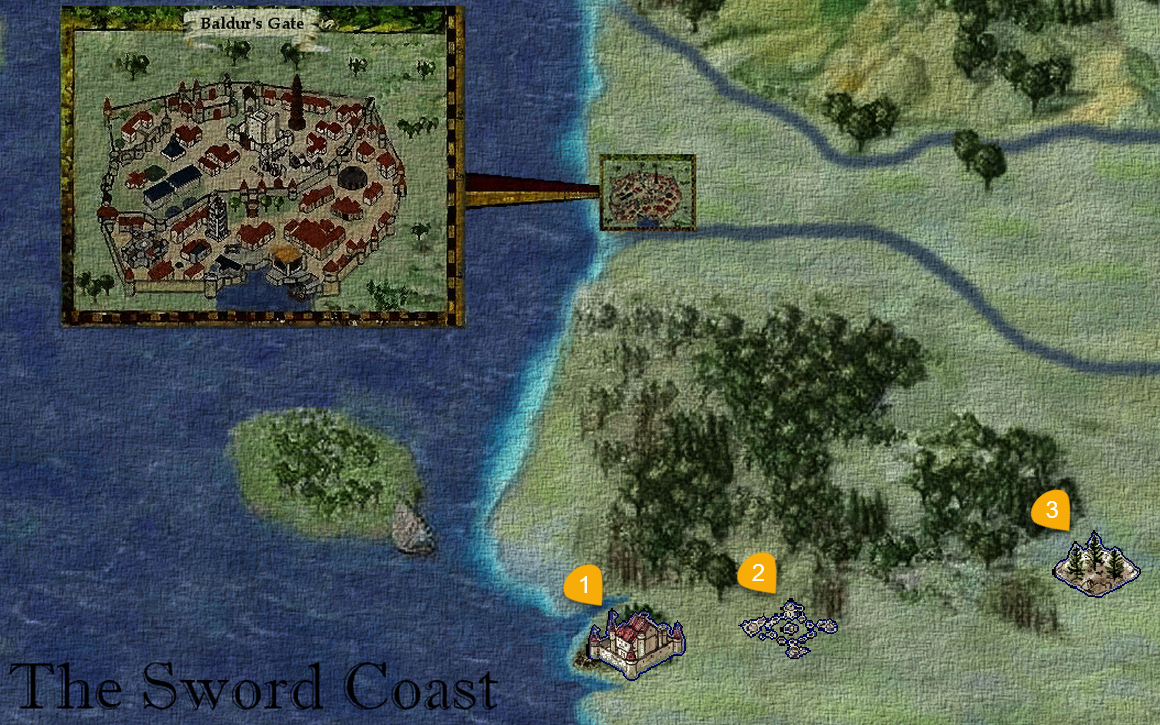
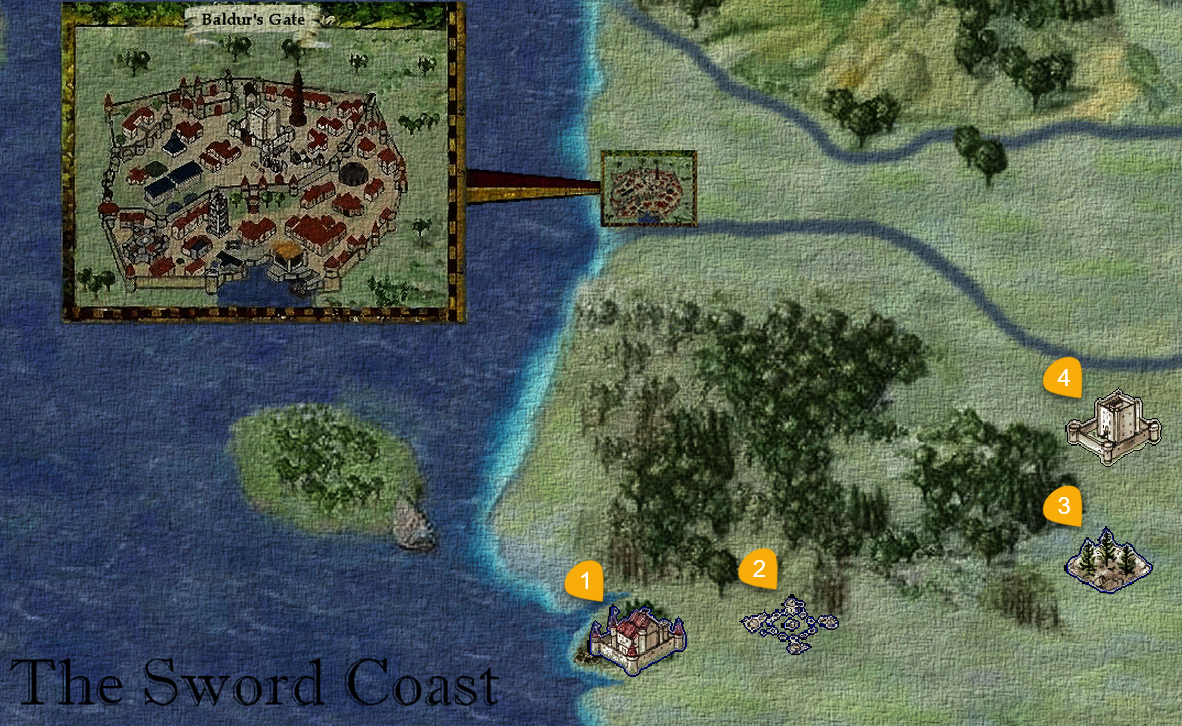
new file:   docs/images/friendlyarm.webp 	new file:   docs/images/goldpantaloons.webp 	new file:   docs/images/hobgoblin.webp 	new file:   docs/images/maly_pajak.webp 	new file:   docs/images/niedzwiedz.webp 	new file:   docs/images/orig/friendlyarm.webp 	new file:   docs/images/orig/goldpantaloons.

diff --git a/docs/storyline/chapter1-2.md b/docs/storyline/chapter1-2.md
@@ -1,0 +1,119 @@
+![Pod pomocną dłonią](../images/friendlyarm.webp){ .center-img width="100%" }\
+
+[![Lwi Trakt](../maps/BG2300.webp){ .center-img width="40%" }](../maps/BG2300.webp)
+
+Zmęczeni podróżnicy dotarli w końcu do *Pomocnej Dłoni*. Gospoda okazała się w rzeczywistości warownią otoczoną wysokim murem. Wewnątrz znajdowały się zabudowania gospodarcze, świątynia oraz przysadzista wieża, w której wędrowcy mogli znaleźć bezpieczny nocleg i odpocząć od niebezpieczeństw szlaku. Przy bramie strażnicy <span class="mb">1</span> poinformowali nowo przybyłych, że za murami obowiązują dwie proste zasady: należy zachowywać się uprzejmie i nie wszczynać żadnych bójek.
+
+Jeszcze podczas marszu **Sandrah** zapytała Leecha o życie w *Candlekeep*, nieświadomie kierując rozmowę ku wciąż bolesnym wspomnieniom o **Gorionie**. Młody gnom przyznał jednak, że przywoływanie dobrych chwil spędzonych z przybranym ojcem przynosi mu pewną ulgę, gdyż milczenie i tak nie jest w stanie uciszyć żalu po jego stracie. Choć cytadela pozostawała połączona z całym światem dzięki nieustannemu napływowi gości oraz gromadzonej w bibliotece wiedzy, dla wychowanka **Goriona** zawsze była miejscem odizolowanym i niemal pozbawionym rówieśników poza **Imoen** i **Adamem**. Leech zdobył tam rozległą wiedzę o *Wybrzeżu Mieczy*, jego mieszkańcach i historii, lecz dopiero teraz przekonywał się, jak bardzo teoria różni się od rzeczywistości. Czym innym było bowiem czytać o niebezpieczeństwach szlaku, a czym innym stanąć z nimi twarzą w twarz.
+
+**Sandrah**, która również wychowała się z dala od trudów codziennego życia, podzielała jego ciekawość świata i pragnęła sprawdzić wartość własnego wykształcenia. Zwróciła uwagę, że o powodzeniu wyprawy nie zdecydują jedynie umiejętności bojowe, lecz także wiedza, rozwaga i zdolność właściwego wykorzystywania talentów wszystkich członków drużyny. Zapewniła, że będzie wspierać młodego gnoma zarówno radą i magią leczniczą, jak i własnym orężem. Na zakończenie dodała z uśmiechem, że jego bystry umysł może się okazać równie przydatny jak młot trzymany w dłoni.
+
+Spokojna atmosfera warowni sprawiła, że tym większym zaskoczeniem okazał się atak **Tarnesha** <span class="mb">2</span>, który próbował w pojedynkę zgładzić całą drużynę. **Sandrah** natychmiast rozpoznała w nim łowcę głów, dzięki czemu napastnik nie zdołał wykorzystać elementu zaskoczenia. Starcie nie trwało długo, a przy ciele niedoszłego zabójcy znaleziono kolejny list gończy wystawiony na Leecha. Tym razem nagroda za jego głowę wynosiła dwieście sztuk złota.
+
+Młody gnom po raz kolejny przekonał się, że **Sandrah** jest niezwykle interesującą osobą. W przeciwieństwie do niego większość życia spędziła w wielkim mieście, lecz podobnie jak on nie obawiała się nieznanego i z ciekawością oczekiwała, co przyniesie przyszłość. Również **Imoen** szybko nabierała wprawy w magicznym rzemiośle. Dziewczyna opanowała już umiejętność zapisywania zaklęć na zwojach, udowadniając, że jej zainteresowanie magią nie było jedynie przelotnym kaprysem. Jeśli nadal będzie rozwijać się w takim tempie, może jeszcze niejednego zaskoczyć.
+
+W pobliżu gospody drużyna poznała gnoma o dumnie brzmiącym imieniu **Ygnatz Bombastus III**. Od słowa do słowa uczony przeszedł do sprawy i poprosił o odzyskanie księgi należącej do wielkiego **Karliniego**. Według jego informacji wolumin znajdował się gdzieś w ruinach dawnej szkoły *Ulcastera*. Drużyna postanowiła przyjąć zlecenie i rozejrzeć się za księgą, gdy tylko droga zaprowadzi ją w tamte okolice ([THE MAGNIFICENT KARLINI](../other/zadania.md#q10)).
+
+Wewnątrz gospody <span class="mb">3</span> zaczepił ich **Jopi**, lecz rozmowa nie doprowadziła do żadnych konkretów. Lokalny pijaczyna **Whelp** narzekał na niedobór żelaza, choć problem najwyraźniej nie przeszkadzał mu w dalszym obciążaniu wątroby i ostatnich ocalałych szarych komórek. **Surrey** wyjaśnił, że kryzys żelaza zmusił go do opuszczenia mistrza, kowala **Taeroma Fuiruima** z *Beregostu* i zamierzał teraz udać się do *Waterdeep*, gdzie miał nadzieję znaleźć lepsze perspektywy. Szef kuchni **Martel** prowadził natomiast niewielki handel miksturami i owocami, które z pewnością będą mogły przydać się podczas dalszej podróży.
+
+Siedzący w rogu półork **Dorn** nie okazał się rozmowny. Ponury wojownik pomylił Leecha ze służbą i od pierwszych słów zachowywał się wyjątkowo nieuprzejmie. Wyglądał na doświadczonego i niebezpiecznego wojownika, lecz zdecydowanie nie był zainteresowany dłuższą konwersacją.
+
+W gospodzie drużyna spotkała również **Sama**, jednego z wędrownych Poetów Jeziora. Bard zaoferował, że za odpowiednią opłatą ułoży pieśń o czynach drużyny, a następnie przez kilka kolejnych dni będzie ją rozpowszechniał wśród mieszkańców *Wybrzeża Mieczy*. W zależności od wersji opowieści jego występ mógł poprawić reputację bohaterów albo skutecznie ją nadszarpnąć. Tym razem Leech postanowił, że nie potrzebuje kolejnej pieśni przedstawiającej go jako nieskazitelnego bohatera. **Sam** otrzymał tysiąc sześćset sztuk złota i opuścił *Pomocną Dłoń*, aby rozgłaszać znacznie mniej pochlebną wersję czynów drużyny. Zapowiedział, że powróci po wykonaniu zadania. :material-trending-down: **Reputacja -3**.
+
+Wśród gości znajdował się także **Thorengrim Hammerfist**, krasnoludzki kowal i handlarz dysponujący imponującym wyborem broni, pancerzy oraz magicznego wyposażenia. Rzemieślnik nie ograniczał się jednak do sprzedaży gotowych przedmiotów. Twierdził, że po dostarczeniu odpowiednich składników będzie potrafił połączyć niektóre elementy ekwipunku i przekuć je w znacznie potężniejsze przedmioty. Leech postanowił zapamiętać jego ofertę. Podczas dalszej wędrówki drużyna z pewnością natrafi na wiele osobliwych artefaktów i materiałów, które w rękach utalentowanego kowala mogą zyskać zupełnie nowe właściwości.
+
+Znacznie bardziej rozmowna okazała się **Nessie**, pomocnica karczmarza. Wyjaśniła, że w czasach poprzedzających powstanie gospody warownia należała do kapłana **Bhaala**, boga mordu. Po śmierci bóstwa obecni właściciele, **Bentley Mirrorshade** i jego żona **Gellana**, zdołali pokonać sługę Pana Mordu, oczyścić twierdzę i przekształcić ją w bezpieczną przystań dla podróżnych. **Nessie** podzieliła się również kilkoma informacjami o gościach na górze. **Unshey** podobno pracował nad nową książką, natomiast **Landrin** próbowała utopić swoje zmartwienia w alkoholu.
+
+Wewnątrz gospody Leech odnalazł wreszcie **Jaheirę** i **Khalida**, przyjaciół wskazanych przez **Goriona**. Półelfka wyjaśniła, że przybrany ojciec od dawna obawiał się o bezpieczeństwo wychowanka i chciał, aby w razie jego przedwczesnej śmierci oboje otoczyli młodego gnoma opieką. Leech był już jednak dorosły, dlatego ostateczna decyzja o przyjęciu ich pomocy należała do niego. Szybko okazało się również, że **Jaheira** znała **Sandrah** z czasów jej dzieciństwa, a **Khalid** pamiętał nawet jej matkę. Kleryczka nie chciała jednak wracać do dawnych wydarzeń i skierowała rozmowę ku bieżącym problemom. Przyjaciele **Goriona** zaproponowali, że będą towarzyszyć jego wychowankowi, dopóki nie odnajdzie własnego miejsca w świecie. Poprosili również drużynę o pomoc w zbadaniu niepokojących wydarzeń w kopalniach *Nashkel*. Zamierzali spotkać się tam z burmistrzem **Berrunem Ghastkillem** i ustalić przyczynę pogłębiającego się kryzysu żelaza. ([JAHEIRA AND KHALID](../other/zadania.md#q11))
+
+**Imoen** z charakterystycznym dla siebie entuzjazmem przywitała nowych towarzyszy, przedstawiając się **Jaheirze** nie tylko jako przyjaciółka Leecha, lecz wręcz jego samozwańcza opiekunka. Młody gnom przyjął propozycję wspólnej podróży, traktując ją jako ostatnią wolę przybranego ojca i zarazem pierwszy krok ku odkryciu prawdy o wydarzeniach, które doprowadziły do jego śmierci.
+
+Następnie nadszedł czas na rozmowę z właścicielem warowni. Leech zapytał **Bentleya Mirrorshade’a**, czy ten nie potrzebuje pomocy w jakiejś sprawie. Gospodarz przyznał, że chociaż w *Pomocnej Dłoni* zawsze znajdowało się zajęcie przy pilnowaniu porządku wśród podróżnych, tym razem potrzebował wsparcia w znacznie poważniejszym problemie. **Bentley** potwierdził opowieść o dawnym właścicielu twierdzy. Przed laty warownia należała do nieumarłego kapłana **Bhaala**, którego karczmarz wraz ze swoimi towarzyszami zdołał pokonać. Po zwycięstwie oczyścili budowlę i przekształcili ją w gospodę przeznaczoną dla zmęczonych wędrowców oraz poszukiwaczy przygód. Nie zdołali jednak całkowicie zniszczyć sanktuarium znajdującego się na najniższym poziomie podziemi. Usunęli pozostałości świątyni oraz odnalezione tam przeklęte przedmioty, lecz samych murów i konstrukcji nie mogli zburzyć bez ryzyka naruszenia fundamentów całej warowni. Zdecydowali się więc zamknąć przejście i pozostawić to miejsce zapomnieniu. Niedawno w gospodzie pojawiła się podejrzana grupa, która znacznie bardziej niż odpoczynkiem interesowała się piwnicami. Intruzom udało się odnaleźć tajne przejście prowadzące do podziemi, gdzie rozpoczęli poszukiwania pozostałości dawnego sanktuarium. Aby zapewnić sobie spokój, przyzwali ogromne szczury, nieumarłych oraz potężniejsze plugastwa, które miały powstrzymać każdego, kto spróbowałby za nimi podążyć. **Bentley** zamknął przejście, aby zło nie wydostało się na powierzchnię, lecz potrzebował kogoś, kto zejdzie do piwnic, rozprawi się z przyzwanymi stworzeniami i zmusi intruzów do opuszczenia warowni. Sam zamierzał pozostać na górze, pilnować porządku i zadbać o bezpieczeństwo gości. **Jaheira** pochwaliła zniszczenie dawnej świątyni, zauważając, że *Wybrzeże Mieczy* nie potrzebuje kolejnego sanktuarium poświęconego mordowi. **Imoen** natomiast natychmiast zainteresowała się możliwością przeszukania zapomnianych podziemi i odnalezienia pozostawionych tam skarbów. Drużyna zgodziła się pomóc, gdy tylko będzie odpowiednio przygotowana ([SHADOWS BELOW THE FRIENDLY ARM INN](../other/zadania.md#q12)).
+
+---
+
+Na piętrze karczmy **Sherman** potwierdził, że gospoda stara się zapewnić schronienie każdemu, kto rzeczywiście go potrzebuje. Pozostali goście byli znacznie mniej otwarci. **Marlon** oraz pewien szlachcic jasno wyrazili niezadowolenie z powodu nieproszonej wizyty. 
+
+W jednym z pokojów drużyna spotkała **Unsheya**, który poprosił o odzyskanie pasa skradzionego mu przez ogra. Szczęśliwym zbiegiem okoliczności chodziło o dokładnie tego samego potwora, którego podróżnicy zabili wcześniej na trakcie prowadzącym do gospody. Leech zwrócił właścicielowi odzyskaną własność, a uradowany **Unshey** wypłacił obiecaną nagrodę i dodatkowo opłacił drużynie kąpiel. Najwyraźniej uznał, że zapach może mieć wiele imion, ale woń poszukiwaczy przygód po kilku dniach spędzonych na szlaku zdecydowanie nie powinna być jednym z nich ([A ROGUE OGRE](../other/zadania.md#q13)).
+
+---
+
+Na najwyższym piętrze podróżnicy odnaleźli **Landrin**, która opuściła swój dom w *Beregostcie* z powodu inwazji pająków. Kobieta poprosiła o oczyszczenie budynku, a także odzyskanie butów należących do jej męża oraz butelki wina pozostawionej w środku. Drużyna zgodziła się pomóc, jeśli podczas dalszej podróży nadarzy się okazja odwiedzenia *Beregostu* ([LANDRIN’S POSSESSIONS](../other/zadania.md#q14)).
+
+W narożnym pokoju pewien szlachcic pomylił przybyszów ze służbą i bez większego zastanowienia oddał im do wyczyszczenia swoje złote pantalony pochodzące z *Calimshanu*. Drużyna nie zamierzała wyprowadzać go z błędu. Złote portki były niewątpliwie osobliwym znaleziskiem, choć trudno było przewidzieć, do czego mogłyby się kiedykolwiek przydać. W pokojach przeznaczonych dla biedniejszych gości spotkali również **Cartha**, lecz mężczyzna szybko ich zbył i nie zamierzał wdawać się w rozmowę.
+
+W kolejnym pomieszczeniu drużyna zastała **Jen’lig** stojącą nad martwym ciałem jakiegoś nieszczęśnika. Nieznajoma okazała się githyanki ścigającą złodzieja i mordercę odpowiedzialnego za kradzież świętego miecza jej ludu. Winowajca zdążył już zapłacić za swoje czyny życiem, lecz skradziony artefakt trafił do *Wrót Baldura*. Bramy miasta pozostawały jednak zamknięte z powodu rosnącego zagrożenia ze strony bandytów i pogłębiającego się kryzysu żelaza. **Sandrah** wyjaśniła, że githyanki pochodzą z bezbożnych pustkowi Planu Astralnego i przybywają na inne plany przede wszystkim w poszukiwaniu utraconych relikwii. **Jaheira**, choć nie pochwalała zabójstwa, uznała, że przybyszka postąpiła zgodnie z prawami własnego ludu. Ponieważ odzyskanie miecza wymagało dotarcia do *Wrót Baldura*, **Sandrah** zaproponowała **Jen’lig** wspólną podróż. Wszystko wskazywało na to, że miasto prędzej czy później i tak znajdzie się na szlaku drużyny, a wzajemna pomoc mogła przynieść korzyść obu stronom.
+
+Wojowniczka zgodziła się dołączyć, lecz postawiła warunek, że nie podporządkuje się słabemu przywódcy. Leech, pamiętając lektury z *Candlekeep*, odpowiedział, że zna reputację githyanki jako bezwzględnych wojowników i oddanych wykonawców powierzonych zadań. Następnie jasno dał do zrozumienia, że to on dowodzi wyprawą i oczekuje posłuszeństwa od każdego członka drużyny. **Jen’lig** przyjęła te słowa bez dalszego sprzeciwu, po czym zajęła się ciałem swojej ofiary, odsyłając je na inny Plan.
+
+---
+
+Po zakończeniu spraw na górnych piętrach podróżnicy powrócili na dół. Nadszedł czas, aby dotrzymać obietnicy złożonej **Bentleyowi** i zejść do piwnic gospody. Już na pierwszych poziomach podziemi drogę zastąpiły im ogromne szczury, nieumarli oraz inne stworzenia przyzwane przez intruzów. Im głębiej schodzili, tym wyraźniejsze stawały się ślady dawnego sanktuarium i mrocznych obrzędów odprawianych niegdyś pod warownią. Na trzecim poziomie piwnic drużyna spotkała **Leilo**, który bez ostrzeżenia ruszył do ataku. Napastnik uznał, że przybysze zamierzają przeszkodzić niejakiemu **Klarinnowi**, i nie zamierzał dopuścić ich do najniższej części podziemi. Jego opór nie trwał jednak długo. Na samym dole podróżnicy odnaleźli **Klarinna** i jego psa **Apsu**, sługa **Bhaala** badający pozostałości dawnego sanktuarium. **Klarinn** przeklinał **Bentleya Mirrorshade’a** za oczyszczenie twierdzy oraz zniszczenie większości ksiąg, symboli i innych śladów pozostawionych przez poprzedniego rezydenta. Fanatyk poszukiwał zwłaszcza potężnego przedmiotu należącego niegdyś do jednego z najważniejszych wyznawców Pana Mordu. Wierzył, że gdzieś w ruinach wciąż mogą znajdować się zapomniane relikwie i wiedza, które pozwolą przywrócić dawną potęgę kultu.
+
+Leech oskarżył go o sprowadzenie do podziemi potworów i zagrożenie życiu niewinnych gości gospody. Nie zamierzał również pozwolić, aby kolejny czciciel **Bhaala** opuścił to miejsce i rozpoczął szerzenie śmierci na powierzchni. **Klarinn** odpowiedział, że pragnie oczyścić świat ze słabeuszy próbujących zapomnieć o jego bogu, po czym wraz z **Apsu** rzucił się do walki. Starcie zakończyło się znacznie szybciej, niż fanatyk zapewne przewidywał. **Jen’lig** zadała mu potężny cios i pozbawiła życia, zanim zdążył urzeczywistnić choćby część swoich gróźb. 
+
+Po rozprawieniu się z ostatnimi przeciwnikami drużyna dokładnie przeszukała pozostałości sanktuarium i upewniła się, że żadne z przyzwanych plugastw nie pozostało przy życiu. Podziemia *Pomocnej Dłoni* zostały oczyszczone, a podróżnicy mogli wrócić na powierzchnię i zdać **Bentleyowi** raport z wykonania zadania.
+
+:material-paw: **Bestiariusz:** *Olbrzymi szczur, Pełzacz ścierwojad, Mały pająk, Szkielet wojownik*
+
+-----
+Po oczyszczeniu piwnic drużyna wróciła do **Bentleya Mirrorshade’a** z wiadomością o wykonaniu zadania. **Sandrah** poinformowała gospodarza, że intruzi oraz przyzwane przez nich plugastwa nie będą już niepokoić gości *Pomocnej Dłoni*. Wyjaśniła również, że przywódca grupy interesował się przede wszystkim pozostałościami sanktuarium Bhaala i poszukiwał ukrytego tam niegdyś potężnego symbolu Pana Mordu. **Bentley** przyznał, że był to jedyny przedmiot, którego nie udało mu się zniszczyć podczas oczyszczania twierdzy. Relikwia została jednak skradziona wiele lat wcześniej i od tamtej pory nikt jej nie widział. **Khalid** wyraził nadzieję, że przepadła na zawsze, lecz właściciel gospody obawiał się, że nadal może spoczywać gdzieś na *Wybrzeżu Mieczy* lub w *Amnie*, zamknięta w skarbcu jakiegoś złowrogiego kolekcjonera. Na zakończenie podziękował drużynie za pomoc, wypłacił obiecaną nagrodę i zapewnił, że w razie potrzeby zawsze będzie można znaleźć go w gospodzie ([SHADOWS BELOW THE FRIENDLY ARM INN](../other/zadania.md#q12)). :material-trending-up: **Reputacja +1**.
+
+**Jen’lig** zagaiła rozmowę i powróciła do okoliczności ich pierwszego spotkania, przyznając, że widok Leecha stojącego z bronią nad zakrwawionym ciałem sierżanta Płomiennej Pięści mógł wzbudzić uzasadnione podejrzenia. Wyjaśniła jednak, że zabity uczestniczył w kradzieży świętego miecza githyanki, a tym samym dopuścił się zbrodni przeciwko jej ludowi. Poszukiwany artefakt nie był zwykłym srebrnym ostrzem, lecz bronią wykutą z fragmentu miecza używanego niegdyś przez samą **Gith** podczas wyzwalania jej pobratymców spod jarzma Illithidów. Wiele wieków później miecz rozpadł się podczas bitwy Króla Cieni z tajemniczym magiem, a jego odłamki rozproszyły się po *Mokradłach Umarłych*. Kradzież okryła hańbą klan i miasto wojowniczki, dlatego musi odzyskać relikwię bez względu na przeszkody. Złodziej zamierzał użyć jej do wyrządzania krzywdy, a każda jego kolejna zbrodnia obciążała honor **Jen’lig**. Ponieważ sierżant przybył z *Wrót Baldura*, właśnie tam prowadził następny trop w jej poszukiwaniach ([JEN’LIG’S HUNT](../other/zadania.md#q15)). Githyanka poprosiła abyśmy znaleźli dla niej srebrny amulet.
+
+
+:material-account-group: **Pozostawieni NPC:** *Xzar i Montaron* (Pomocna Dłoń)
+
+---
+
+Po uporaniu się z problemem karczmarza drużyna postanowiła ruszyć na południe. Opuścili więc bezpieczne mury *Pomocnej Dłoni*, zostawiając za sobą ciepłe posiłki, miękkie łóżka i złudne poczucie bezpieczeństwa. Przed nimi rozciągał się szlak prowadzący ku *Nashkel*, a wraz z nim bandyci, potwory i zapewne kolejni osobnicy przekonani, że dwieście sztuk złota to uczciwa cena za głowę młodego gnoma.
+
+Przy wyjściu **Sandrah** zapytała towarzysza o rodzinę. Wychowanek **Goriona** przyznał, że po śmierci przybranego ojca właściwie pozostał sam. Zawsze traktował jednak **Imoen** jak siostrę, mimo że nie łączyły ich więzy krwi. Kleryczka zauważyła, że wspólne dorastanie w odosobnionym *Candlekeep* musiało stworzyć między nimi szczególnie silną więź, i wyraziła przekonanie, że dziewczyna pozostanie mu wierną towarzyszką. Następnie opowiedziała o własnym dzieciństwie. Była jedynaczką wychowaną przez ojca, a jej matka zmarła rok po narodzinach córki. **Sandrah** nie zachowała o niej żadnych wspomnień i znała ją jedynie z opowieści innych. Jej słowa uświadomiły młodemu awanturnikowi, jak niewiele sam wiedział o swoim pochodzeniu. **Gorion** nigdy nie zdradził mu nawet imienia matki, a wraz z jego śmiercią odpowiedzi na wiele pytań mogły przepaść na zawsze.
+
+Na schodach <span class="mb">3</span> prowadzących do wejsci do karczmy zaczepiła drużynę **Giran**, przekazując **Sandrah** list od maga w spiczastym kapeluszu. Wszystko wskazywało na to, że chodziło o tego samego tajemniczego starca, którego spotkali wcześniej na *Lwim Trakcie*. Nieznajomy ponownie dawał do zrozumienia, że wie o ich podróży znacznie więcej, niż powinien.
+
+Nieopodal spotkali **Mal’meta Bloomducka** <span class="mb">4</span>, uczonego zajmującego się badaniem miejscowej flory, dawnych tekstów i, jak się szybko okazało, spraw dostatecznie zagmatwanych, by zainteresować każdego szanującego się poszukiwacza przygód. Badacz poprosił, aby odwiedzili go w pobliskim domu <span class="mb">5</span>, gdzie przedstawił szczegóły swojego odkrycia. Podczas jednej z kwerend **Mal’met Bloomduck** odnalazł wzmianki o czterech ukrytych kręgach, z których każdy przechowywał osobną magiczną sferę. Zebrane razem artefakty miały ujawnić piąte miejsce i uwolnić energię potrzebną do osiągnięcia celu, którego uczony nie potrafił jeszcze dokładnie wyjaśnić. Istnienie kręgów potwierdzały również inne dzieła poświęcone *Wybrzeżu Mieczy* i wiedzy tajemnej. Kryjówki miały znajdować się gdzieś pomiędzy *Wrotami Baldura* a *Nashkel*. **Mal’met** zaproponował, aby drużyna odnalazła wszystkie cztery sfery, podczas gdy on zajmie się zgromadzeniem pozostałych siedemdziesięciu czterech składników potrzebnych do ukończenia badań. Trudno było nie docenić tak sprawiedliwego podziału obowiązków: on zdobędzie siedemdziesiąt cztery składniki, oni jedynie cztery, choć zapewne te pilnowane przez potwory, pułapki i inne nieprzyjemności. W zamian uczony obiecał siedem tysięcy sztuk złota oraz uwzględnienie imion uczestników wyprawy w swojej pracy. Przekazał również Leechowi specjalny pierścień ujawniający wejścia do kryjówek oraz zapiski, które powinny ułatwić ich odnalezienie. Ostrzegł jednak, że pierścień zadziała tylko wtedy, gdy w pobliżu nie będzie obcej energii zakłócającej zaklęcie. **Sandrah** uznała propozycję za wartą przyjęcia, a świeżo upieczony dowódca drużyny chętnie się zgodził. Wizja siedmiu tysięcy sztuk złota potrafiła nadać naukowym badaniom wyjątkowego uroku ([CIRLES OF INTEREST](../other/zadania.md#q16)).
+
+Ponieważ **Khalid** znał matkę **Sandrah**, kleryczka wykorzystała chwilową nieobecność **Jaheiry** i poprosiła go, aby opowiedział jej coś o kobiecie, której sama nie mogła pamiętać. Mężczyzna zauważył, że dziewczyna zapewne wielokrotnie słyszała o niezwykłym podobieństwie do matki, dlatego zamiast wyglądu opisał jej charakter. Wspominał kobietę, która całym sercem kochała ojca **Sandrah**, mimo dzielącej ich różnicy wieku, i obdarzała wielką miłością wszystkie żywe istoty: ludzi, zwierzęta oraz rośliny. Szczególnie dobrze zapamiętał jej śpiew, niegdyś rozbrzmiewający w rodzinnym ogrodzie w *Waterdeep*. Rozmowę przerwała powracająca **Jaheira**, która natychmiast zainteresowała się ich szeptami. Speszony **Khalid** przyznał, że opowiadał o matce **Sandrah**. Półelfka skwitowała to z charakterystyczną bezpośredniością, nazywając męża romantycznym głupcem. Najwyraźniej nawet po latach małżeństwa nadal potrafił ją zaskoczyć, choć niekoniecznie w sposób, na jaki liczył.
+
+W świątyni <span class="mb">6</span> **Gellana**, partnerka **Bentleya**, oferowała leczenie ran oraz inne usługi kapłańskie. Sklep prowadził tam również **Ratava Artsym**, którego imię natychmiast wywołało w drużynie podejrzenie, że kapłani Mystry mają szczególne zamiłowanie do anagramów. Niezależnie od językowych zabaw handlarz posiadał kilka naprawdę interesujących przedmiotów, a wyznawcy bogini magii najwyraźniej wiedzieli, jak uczynić zakupy duchowym przeżyciem.
+
+Za świątynią <span class="mb">7</span> **pani Godfrey** oferowała torby i pojemniki na niemal każdą okazję a obok **Sintara Al-Mustafa** sprzedawała magiczne przedmioty dobrej jakości, sprawiając przy tym wrażenie, jakby na kogoś oczekiwała. Z rozmowy wynikało, że mogła wypatrywać swojej siostrzenicy, **Alexii**.
+
+Przy głownym placu wewnątrz murów drużyna spotkała **Churina** <span class="mb">8</span>, który rozglądał się za doświadczonymi poszukiwaczami przygód gotowymi pomóc mieszkańcom *Easthaven*. Jedno spojrzenie na wciąż mało znaną kompanię wystarczyło mu jednak, by uznać, że nie zdobyła jeszcze wystarczającej sławy do podjęcia tak ważnej misji.
+
+**Churin** polecił im najpierw dowieść swojej wartości czynami. Wspomniał przy tym o problemach w *Nashkel* oraz o swoim zaginionym kuzynie **Brage’u**, który służył dotąd w tamtejszej straży. **Sandrah** zauważyła, że *Easthaven* leży bardzo daleko, lecz zapewniła nieznajomego, że ich drogi jeszcze się skrzyżują. Najwyraźniej lista spraw do załatwienia rosła szybciej niż doświadczenie nowo narodzonego bohatera.
+
+Przy wozie stojącym w części parkowej <span class="mb">9</span> rozłożył swój kram sprzedawca perfum. Angebot pachniał niewątpliwie lepiej niż większość napotkanych dotąd trupów, choć jego przydatność w walce z hobgoblinami pozostawała dyskusyjna.
+
+W domu przy bramie <span class="mb">10</span> mieszkała **Joia**, która opowiedziała o pierścieniu skradzionym przez hobgobliny grasujące niedaleko murów warowni. Poprosiła o odzyskanie rodzinnej pamiątki, a drużyna zgodziła się rozejrzeć za rabusiami podczas obchodu okolicy ([JOIA’S FLAMENDANCE RING](../other/zadania.md#q17)).
+
+Podczas dalszej wędrówki **Sandrah** powróciła do tajemnicy dzieciństwa Leecha i **Imoen**. Oboje niemal nic nie wiedzieli o swoim pochodzeniu, a dziewczyna pojawiła się w *Candlekeep* w wieku kilku lat, pozostając odtąd pod opieką **Winthropa**, podobnie jak mały Leech wychowywany przez **Goriona**. Początkowo uznali, że przyjmowanie osieroconych dzieci nie musiało być niczym niezwykłym. Na *Wybrzeżu Mieczy* brakowało miejsc gotowych zapewnić im bezpieczne schronienie, a zamknięta cytadela pełna mnichów, ksiąg i surowych zasad mogła uchodzić za całkiem przyzwoity sierociniec, przynajmniej jeśli dziecko szczególnie lubiło ciszę. Szybko dostrzegli jednak poważną nieścisłość. Według zasłyszanych opowieści Leech miał około dziesięciu lat, gdy **Imoen** trafiła do cytadeli, lecz żadne z nich nie pamiętało tak znaczącego wydarzenia. Co więcej, ich wspomnienia nie pasowały do wersji przekazywanej przez opiekunów. **Sandrah** uznała, że **Gorion**, **Winthrop** i pozostali mnisi mogli celowo ukrywać przed nimi prawdę, sprowadzając dzieci do *Candlekeep* osobno i w innych okolicznościach, niż później twierdzili. Rozmowa pozostawiła więcej pytań niż odpowiedzi i wzmocniła podejrzenie, że nieznane pochodzenie Leecha oraz **Imoen** może łączyć wspólna tajemnica.
+
+Przy innej okazji **Sandrah** zauważyła, że pomimo dorastania wśród mnichów jej towarzysz nie wydawał się szczególnie religijny. Trudno było odmówić jej racji. Młody gnom znał wielu bogów z ksiąg, lecz najwyraźniej żaden nie przekonał go jeszcze, że warto codziennie wstawać wcześniej tylko po to, aby składać mu modły. Kleryczka wyjaśniła, że służba **Mystrze** nie polega na nawracaniu ani wygłaszaniu kazań, lecz na czuwaniu nad właściwym wykorzystywaniem magii i przeciwstawianiu się tym, którzy używają jej w złych celach. Bogini nie może odebrać dostępu do Splotu wyznawcom innych bóstw, nawet tych uznawanych za złe. Jej kapłani wspierają więc odpowiedzialnych użytkowników magii i zwalczają tych, którzy nadużywają jej darów. Wychowanek **Goriona** uznał zatem **Mystrę** raczej za strażniczkę niż władczynię decydującą o losach śmiertelników. **Sandrah** zgodziła się, dodając, że bogowie mogą prowadzić i udzielać rad, lecz świat materialny należy do jego mieszkańców, którzy sami kształtują swoje przeznaczenie. Na zakończenie zauważyła, że takie podejście doskonale pasuje do niezależnej natury gnoma, chętniej podejmującego własne decyzje, niż ślepo podporządkowującego się narzuconym zasadom.
+
+Przy murach warowni <span class="mb">11</span> **Sandrah** zachwyciła się dzikim ogierem spokojnie pasącym się na trawie. Leech natomiast coraz mniej uwagi poświęcał koniowi, a coraz więcej swojej towarzyszce. Dziewczyna fascynowała go z każdą kolejną rozmową, dlatego zaczął ostrożnie badać grunt i wplatać w rozmowę pierwsze próby flirtu. Na razie delikatnie, bez szarży godnej dwóch katan, bo nawet mistrz ostrzy powinien wiedzieć, że nie każdą potyczkę wygrywa się frontalnym atakiem.
+
+Podczas dalszego obchodu **Jen’lig** próbowała zrozumieć znaczenie małżeństwa w społeczeństwie mieszkańców *Faerûnu*. Początkowo błędnie uznała związek **Jaheiry** i **Khalida** za formę własności oraz układ służący przede wszystkim podtrzymaniu rodu. Półelfka stanowczo wyjaśniła, że nie traktuje męża jak niewolnika, a ich więź opiera się na czymś znacznie głębszym niż obowiązek wobec własnego ludu. **Khalid**, wyraźnie zakłopotany kierunkiem rozmowy, próbował poprzeć słowa ukochanej, lecz jego niefortunne sformułowania tylko pogorszyły sytuację. **Jen’lig** uznała ostatecznie, że zaczyna rozumieć ideę małżeństwa, po czym natychmiast dodała, że **Khalid** nie wydaje się jej najlepszym wyborem partnera. Rozdrażniona **Jaheira** nazwała go wprawdzie głupcem, lecz zaraz zaznaczyła, że jest inteligentnym głupcem. Tym samym jasno dała do zrozumienia, że wyłączne prawo do krytykowania jej męża należy do niej, a githyanki powinny najpierw dobrze poznać miejscowe obyczaje.
+
+Kawałek dalej drużyna natknęła się na pierwszą grupę hobgoblinów <span class="mb">12</span>, lecz żaden z napastników nie miał przy sobie pierścienia **Joi**. Podobny rezultat przyniosło starcie z kolejną bandą na północy <span class="mb">13</span>. Najwyraźniej w okolicy działało więcej hobgoblinów niż przypuszczano, a poszukiwana biżuteria była w rękach innej grupy szemranego towarzystwa.
+
+Pierścień odnaleźli dopiero przy grupie czekającej na trakcie <span class="mb">14</span>. Rabusie wyraźnie liczyli na łatwy łup, lecz dwa ostrza głównego bohatera i broń jego coraz liczniejszych towarzyszy szybko wyprowadziły ich z błędu. Podczas walki **Sandrah** w ostatniej chwili uleczyła rannego szermierza. Leech pochwalił jej umiejętności, żartując, że nawet w *Candlekeep* trudno byłoby znaleźć równie sprawną uzdrowicielkę. Kapłanka wyjaśniła, że świadomie poświęciła się sztuce leczenia, ponieważ jako służka **Mystry** woli naprawiać i chronić, niż niszczyć. Przyznała jednak, że wspólna droga niejednokrotnie zaprowadzi ich w sam środek walki, dlatego pod okiem ojca i nauczycieli przygotowywała się również do zadawania śmierci. Mistrz dwóch kling zauważył, że sama potrafi znieść wiele bólu, lecz jeszcze lepiej radzi sobie z jego zadawaniem. **Sandrah** odpowiedziała, że skoro nadchodzące wydarzenia pozostawiają im niewielki wybór, cieszy się, iż może wspierać go zarówno uzdrawiającą magią, jak i talentem bojowym. Młody wojownik nie zamierzał protestować przeciwko żadnemu z tych talentów.
+
+W drodze powrotnej do **Joi** drużyna natknęła się jeszcze na dwóch Szaroskórych (14). Ich obecność w pobliżu *Pomocnej Dłoni* była co najmniej zastanawiająca, szczególnie że w okolicy nie znajdowało się żadne znane wejście do *Podmroku*. Skąd przybyli i czego szukali na powierzchni, pozostawało tajemnicą.
+
+Po uporaniu się z nieproszonymi przybyszami drużyna wróciła do domu przy bramie <span class="mb">10</span>. Leech oddał **Joi** odzyskany pierścień, a wdzięczna kobieta podziękowała za przywrócenie rodzinnej pamiątki ([JOIA’S FLAMENDANCE RING](../other/zadania.md#q17)).
+:material-trending-up: **Reputacja +1**
+
+:material-paw: **Bestiariusz:** *Dziki Niedźwiedź, Hobgoblin czarodziej, Hobgoblin, Hobgoblin szaman, Szaroskóry*
+
+---
+
+Trivia: Złote Pantalony
+
+![Złote Pantalony](../images/goldpantaloons.webp){ .center-img }
+Złote Pantalony z pewnością były świadkami samych początków naszego świata, choć należy podkreślić, że „widziały” owe czasy wyłącznie przez swoją obecność, a nie za pomocą jakichś szczątkowych oczu, które mogłyby wyłonić się z tylnej kieszeni, być może ukrywającej zęby i inne równie nieprawdopodobne kończyny. Jestem przekonany, że liczni właściciele pantalonów mogliby zaświadczyć o całkowitym braku ruchomych palców czy narządów wzroku, czego dowodzi niezmiennie zachowana przyzwoitość i prywatność ich szanownych pośladków.
+Liryczne pantalony z od dawna niedostępnej epoki wspominają o „spodniach z metalu, choć miękkich wokół goleni”.
+Choć łatwo byłoby wysnuć pozornie nieunikniony wniosek, że pantalony wzniosły się do chwały, podczas gdy Netheril upadło, wątpliwe jest, by owe wersy odnosiły się właśnie do Złotych Pantalonów. Należy wyjaśnić te błędnie cytowane strofy dzięki wiedzy o Pantechnikonie, starożytnym bazarze niegdyś cenionym przez Srebrnych Pantaletów. Drobne egzemplarze można tam podobno jeszcze znaleźć, lecz złotych nigdy nie było. Mówi się też, że obecnie dostępne są Niklowe Majtki, jednak przystanie i sklepy twierdzące, że je oferują, wykraczają poza zakres mojego skromnego doświadczenia, dlatego nie mogę ich opisać.
+Przeznaczenie Pantalonów pozostaje równie tajemnicze jak zawsze i zapewne takie pozostanie, dopóki sam Pantokrator nie powróci, choć pewne właściwości można wywnioskować na podstawie uważnej obserwacji.
+„Unoszące” właściwości tego odzienia bardzo skutecznie przeciwstawiają się grawitacji, korzystnie modelując sylwetkę zarówno z przodu, jak i z tyłu. Taki efekt mógłby znacząco zwiększyć pewność siebie osoby dowolnej płci. Ośmielę się jednak przypuszczać, że długotrwałe złudzenie własnej doskonałości mogłoby z czasem negatywnie wpłynąć na zdolności poznawcze. Dlatego zaleca się ostrożność przy noszeniu pantalonów wszelkiej złotej natury.

diff --git a/docs/other/bestie.md b/docs/other/bestie.md
@@ -1,0 +1,11 @@
+
+|Nazwa|Opis|Wygląd|
+|-------------|-------------------------------------------|-----------------------|
+|Dziki niedźwiedź|Potężne stworzenie reprezentujące czystą, nieokiełznaną siłę natury. Spotykany najczęściej w gęstych lasach, górskich ostępach i jaskiniach, z reguły unika ludzi, chyba że broni swojego terytorium, młodych lub szuka pożywienia przed zimą. W walce polega na ogromnej masie, ostrych pazurach i potężnym uścisku szczęk, szarżując na przeciwnika z oślepiającą furią. Choć dla doświadczonych poszukiwaczy przygód stanowi jedynie naturalne zagrożenie, w oczach druidów i traperów pozostaje jednym z najbardziej szanowanych i niebezpiecznych drapieżników dzikich ostępów.|[![Niedźwiedź](../images/niedzwiedz.webp){ .center-img width="30%" }](../images/niedzwiedz.webp)|
+|Hobgoblin|Dyscyplina, bezwzględność i wojenny kunszt – hobgobliny to sprytni, mierzący ponad metr osiemdziesiąt wzrostu kuzyni goblinów, tworzący wysoce zorganizowane militarne społeczności. Odziani w ciężkie zbroje i wyszkoleni w walce w zwartej formacji, traktują wojnę jak rzemiosło, a bezdyskusyjne posłuszeństwo rozkazom stawiają ponad własne życie. Przydzielani bezpośrednio do oddziałów bojowych magowie hobgoblinów traktują magię jak kolejną broń masowego rażenia. Wyszkoleni w szkole odwoływania (evocation), ciskają w szeregi wrogów potężne kule ognia czy błyskawice z przerażającą precyzją, dbając o to, by ich obszarowe zaklęcia omijały sojuszniczych żołnierzy. Duchowy filar legionu, służący krwawym bóstwom wojny, takim jak Maglubiyet. Szamani podtrzymują fanatyczne morale wojsk, natchnionymi modlitwami wzmacniając siłę ataku swoich braci, a także leczą rannych dowódców na polu bitwy i wzywają mroczne błogosławieństwa, by złamać wolę walki przeciwnika.|[![Hobgoblin](../images/hobgoblin.webp){ .center-img width="30%" }](../images/hobgoblin.webp)|
+|Mały pająk|Mimo iż z nazwy „mały”, ten obrzydliwy stawonóg rozmiarem dorównuje wyrośniętemu psu i stanowi śmiertelne zagrożenie dla samotnych wędrowców. Poruszając się na długich, owłosionych odnóżach z zaskakującą prędkością, zamieszkuje zarośnięte knieje, mroczne jaskinie oraz zapomniane krypty. Zamiast czekać w sieci, często aktywnie tropi swoje ofiary, by powalić je ciężarem własnego ciała i zatopić w nich wielkie kły. Jego jad wywołuje natychmiastowe odtwienie i paraliż mięśni, co pozwala stworzeniu sprawnie owinąć obezwładniony łup w szczelny kokon z pajęczyny.|[![Mały pająk](../images/maly_pajak.webp){ .center-img width="30%" }](../images/maly_pajak.webp)|
+Pełzacz ścierwojad|Głęboko w podziemnych korytarzach, tam gdzie zapach wilgoci miesza się z odorem rozkładu, po ścianach i sufitach bezszelestnie mknie Pełzacz Ścierwojad. Ten gigantyczny, obrzydliwy stawonóg jest wiecznie głodną czystką podziemi – zwabiony zapachem krwi i śmierci, poluje z zaskoczenia, spadając na niczego niespodziewających wędrowców wprost z ciemności. Wokół jego szczczęk wije się pęk obrzydliwych macek ociekających paraliżującym śluzem; wystarczy jedno muśnięcie, by śmiałek zastygł w bezruchu, bezradnie patrząc, jak stwór powoli wciąga go do swojego leża, by pożreć go żywcem.|[![Pełzacz ścierwojad](../images/pelzacz_scierwojad.webp){ .center-img width="30%" }](../images/pelzacz_scierwojad.webp)|
+|Szaroskóry|Szaroskóry (zwany też duergarem lub krasnoludem szarym) to ponura, wypaczona wiekami niewoli u łupieżców umysłów rasa krasnoludów zamieszkująca głębiny Podmroku. Od swoich powierzchniowych kuzynów różnią się aszowatą skórą, pozbawionymi źrenic oczami i bezwzględnym, wyzbytym radości podejściem do życia. Zamiast tradycyjnego rzemiosła przedkładają ciężką niewolniczą pracę i podboje, a dzięki przebytej ewolucji i magii potrafią stawać się całkowicie niewidzialni oraz magicznie powiększać swoje rozmiary podczas walki.|[![Szczur](../images/szaroskory.webp){ .center-img width="30%" }](../images/szaroskory.webp)|
+|Szczur|Szczur jaki jest każdy widzi. A jak nie widział to jego szczęście. Olbrzymi szczur jest wiekszy, chyba top jasne?|[![Szczur](../images/szczur.webp){ .center-img width="30%" }](../images/szczur.webp)|
+|Szkielet wojownik|Szkielet wojownik to ożywiona magią nekromancji pozostałość po poległym żołnierzu, ślepo wykonująca rozkazy swojego twórcy. Pozbawiony tkanki, lęku i własnej woli, prze naprzód z mechaniczną nieustępliwością, dzierżąc spękaną tarczę oraz wyszczerbiony miecz lub włócznię. Choć sam w sobie jest kruchy i podatny na obuchowe uderzenia, stanowi poważne zagrożenie w grupie, walcząc bezczelnie aż do całkowitego rozsypania się w pył.|[![Szkielet wojownik](../images/szkielet_wojownik.webp){ .center-img width="30%" }](../images/szkielet_wojownik.webp)|
+

diff --git a/docs/other/zadania.md b/docs/other/zadania.md
@@ -10,6 +10,59 @@
 |Phlydia'a Book|Wykonane|[Zobacz szczegóły](#q-phlydiab)|
 |Gorion's Dagger|Aktywny|[Zobacz szczegóły](#q-goriond)|
 |Xzar and Montaron|Aktywny|[Zobacz szczegóły](#q-xzarm)|
+|The Magnificent Karlini|Aktywny|[Zobacz szczegóły](#q-mkarlini)|
+|Jaheira and Khalid|Aktywny|[Zobacz szczegóły](#q-jaheirak)|
+|Shadows below the Firendly Arm Inn|Wykonane|[Zobacz szczegóły](#q-shadowsfai)|
+|A Rogue Ogre|Wykonane|[Zobacz szczegóły](#q-rogueo)|
+|Landrin's Possessions|Aktywny|[Zobacz szczegóły](#q-landrinp)|
+|Jen'Lig's Hunt|Aktywny|[Zobacz szczegóły](#q-jenlig)|
+|Circles of Interest|Aktywny|[Zobacz szczegóły](#q-cirlceoi)|
+|Joia's Flamedance Ring|Wykonane|[Zobacz szczegóły](#q-joiar)|
+
+
+??? success "Joia's Flamedance Ring"
+    - **Zleceniodawca:** Joia w swoim domu w Pomocnej Dłoni.
+    - Trzeba znaleźć jej pierścień, który powinien być w rękach hobgoblinów grasujących za murami.
+    - Po zabiciu kilku grup hobgoblinów, przy jednym znależliśmy pierścień, który następnie jej przekazaliśmy
+    <div id="q-joiar"></div>
+
+??? warning "Circles of Interest"
+    - **Zleceniodawca:** Mal'meto w swoim domu w Pomocnej Dłoni.
+    - Celem jest odnalezienia 4 ukrytych sfer teleportujących do nieznanych planów.
+    <div id="q-cirlceoi"></div>
+
+??? warning "Jen'Lig's Hunt"
+    - **Zleceniodawca:** Jen'Lig podczas rozmowy przez nią zainicjowaną.
+    - Celem jest odnalezienia wykradzionego srebrnego miecza. Ślady prowadzą do Wrót Baldura.
+    <div id="q-jenlig"></div>
+
+??? warning "Landrin's Possessions"
+    - **Zleceniodawca:** Landrin na drugim piętrze w Pomocnej Dłoni.
+    - Pragnie odzyskać kilka drobiazgów ze swojego domu w Beregoście w którym zalęgły się pająki.
+    <div id="q-landrinp"></div>
+
+??? success "A Rogue Ogre"
+    - **Zleceniodawca:** Unshey na piętrze Pomocnej Dłoni.
+    - Zwrócić mu opaskę skradzioną przez ogra na południu.
+    - Miał ją ogr z Nadbrzeżnego Traktu.
+    <div id="q-rogueo"></div>
+
+??? success "Shadows below the Firendly Arm Inn"
+    - **Zleceniodawca:** Bentley Mirrorshade w swojej karczmie.
+    - Oczyścić podziemia pod karczmą i wyplenić pozostałości po kulcie Bhaala.
+    - Na samym dole Klarinn sługa kultu Bhaala został pozbawiony złudzeń co do szansy przywrócenia tego miejsca do dawnych praktyk.
+    - Bentley była nam bardzo wdzięczny za zażegnanie sytuacji i wyczyszczenie piwnic.
+    <div id="q-shadowsfai"></div>
+
+??? warning "Jaheira and Khalid"
+    - **Zleceniodawca:** Jaheira i Khalid.
+    - Mamy razem dotrzeć do Nashkel aby przyjrzeć się problemowi z żelazem.
+    <div id="q-jaheirak"></div>
+
+??? warning "The Magnificent Karlini"
+    - **Zleceniodawca:** Ygnatz w głownej izbie Pomocnej Dłoni.
+    - Odnależć księgę zaklęć Karliniego w ruinach Szkoły Ulcastera.
+    <div id="q-mkarlini"></div>
 
 ??? warning "Xzar and Montaron"
     - **Zleceniodawca:** Xzar po spotkaniu na Lim Trakcie.

diff --git a/docs/other/npc.md b/docs/other/npc.md
@@ -40,8 +40,43 @@
 |Elminster|BG2800|:material-check-circle:|ukryte E, przy pierwszym spotkaniu tożsamość maga nie została ujawniona|
 |Andout|BG2800|:material-check-circle:|z wiadomością do Wilkich Książąt|
 |Aoln|BG2800|:material-check-circle:|no comments|
+|Tarnesh|BG2300|:material-close-circle:|🪦 - w pojedynkę na całą drużynę w imię 200 sztuk złota|
+|Jopi|BG2301|:material-check-circle:|no comments, so far|
+|Ygnatz - Ynatius Bombastus III|BG2301|:material-check-circle:|no comments, so far|
+|Whelp|BG2301|:material-check-circle:|pijaczyna|
+|Whelp|BG2301|:material-check-circle:|bard, który wysławiać ma nasze drużynę|
+|Thorengrim Hammerfist|BG2301|:material-check-circle:|podrasuje ciekawe okazy zbroi|
+|Surrey|BG2301|:material-check-circle:|pomocnik kowala z Beregostu|
+|Chef Martel|BG2301|:material-check-circle:|mistrz kuchni z Pomocnej Dłoni|
+|Nessie|BG2301|:material-check-circle:|miła i pomocna dziewka karczemna|
+|Jaheira|BG2301|:material-check-circle: postać przyłączalna|wierna kleryczka na której zawsze można polegać|
+|Khalid|BG2301|:material-check-circle: postać przyłączalna|bliski przyjaciel Jakeiry ale nic poza tem|
+|Bentley Mirrorshade|BG2301|:material-check-circle:|właściciel Pomocnej Dłoni|
+|Marlon|BG2302|:material-check-circle:|podróżny w pokoju w Pomocnej Dłoni|
+|Sherman|BG2302|:material-check-circle:|biedny podróżny w sali dla ubogich w Pomocnej Dłoni|
+|Unshey|BG2302|:material-check-circle:|zleceniodawca z wyczulonym węchem|
+|Landrin|BG2302|:material-check-circle:|wygnana z domu przez pająki|
+|Jen'lig|BG2303|:material-check-circle: postać przyłączalna|moja githanki|
+|Carth|BG2303|:material-check-circle:|wygnana z domu przez pająki|
+|Leilo|L#FAI3|:material-close-circle:|🪦 - obrońca piwnic pod Pomocną Dłonią|
+|Klarinn|L#FAI4|:material-close-circle:|🪦 - obrońca piwnic pod Pomocną Dłonią|
+|Apsu|L#FAI4|:material-close-circle:|🪦 - obrońca piwnic pod Pomocną Dłonią|
+|Giran|BG2300|:material-check-circle:|doręczycielka|
+|Mal'meto Bloomduck|BG2300|:material-check-circle:|sfer poszukiwacz|
+|Gellana Mirrorshade|BG2304|:material-check-circle:|właścicielka Pomocnej Dłoni|
+|Ratava Artsym|BG2304|:material-check-circle:|magicznych rzeczy sprzedawczyni|
+|Sintara Al-Mustafa |BG2300|:material-check-circle:|sfer poszukiwacz|
+|Ms Godfrey|BG2300|:material-check-circle:|torb bezdennych dostaczywni|
+|Churin|BG2300|:material-check-circle:|nasz szlakowy do Icewind Dale|
+|Joia|BG2306|:material-check-circle:|nasz szlakowy do Icewind Dale|
 
-
+Pomocna dłoń - dom Joi - BG306
+Pomocna dłoń - Świątynia Mądrości - BG304
+Pomocna dłoń - trzeci poziom piwnic - L#FAI3
+Pomocna dłoń - drugie pietro - BG2302
+Pomocna dłoń - piętro - BG2302
+Pomocna dłoń - parter - BG2301
+Pomocna Dłoń - BG2300
 Nadbrzeżny Trakt - BG2800
 Lwi Trakt - BG2700
 Candlekeep infirmeria - BG2605

diff --git a/docs/storyline/prologue.md b/docs/storyline/prologue.md
@@ -62,6 +62,8 @@ Wewnątrz, oprócz całej gromady gryzoni, czekał jednak kolejny zabójca. **Me
 
 Po opuszczeniu spichlerza **Leech** nie wspomniał **Reevorowi** o próbie zabójstwa ani o odznalezionym kontrakcie. Zarządca magazynu podziękował jedynie za wytępienie szczurów, nieświadomy, że liczba usuniętych tego dnia szkodników była o jednego większa, niż zakładał.
 
+:material-paw: **Bestiariusz:** *Szczur*
+
 ---
 
 Przy brogu z sianem <span class="mb">9</span> **Dreppin** wspomniał, że **Phlydia** zostawiła gdzieś pomiędzy snopkami swoją księgę. Byłby niezmiernie wdzięczny, gdyby wychowanek **Goriona** odnalazł zgubę i odniósł ją właścicielce. Opowiedział mu również o chorej krowie noszącej wdzięczne imię **Nessa**. Leech wolał nie zgłębiać szczegółów jej i pasterza przypadłości, lecz zwierzę potrzebowało mikstury przeciw truciznom, którą zazwyczaj dysponował **Hull**. Szczęśliwie młodzieniec miał już przy sobie porcję zabraną wcześniej ze skrzyni żołnierza. Po otrzymaniu antidotum **Dreppin** nie krył wdzięczności za udzieloną pomoc ([DREPPIN'S COW](../other/zadania.md#q6)).

diff --git a/docs/storyline/chapter1-1.md b/docs/storyline/chapter1-1.md
@@ -17,7 +17,7 @@ Dopiero gdy napastnicy odeszli, a odgłosy ich kroków całkowicie ucichły, mł
 Bezksiężycowa noc ocaliła go przed mordercami, lecz nie przyniosła ukojenia. Drżąc z zimna, strachu i rozpaczy, skulił się pomiędzy skałami. Sen długo nie nadchodził, a kiedy w końcu zmęczenie wzięło górę, był płytki i niespokojny. Nawet wtedy przed oczami wciąż miał ostatnie chwile **Goriona**.
 
 ---
-[![Candlekeep](../maps/BG2700.webp){ .center-img width="40%" }](../maps/BG2700.webp)
+[![Lwi Trakt](../maps/BG2700.webp){ .center-img width="40%" }](../maps/BG2700.webp)
 
 **Leech** obudził się ze świadomością, że wydarzenia minionej nocy nie były jedynie okropną marą senną. Zasadzka, walka i śmierć **Goriona** wydarzyły się naprawdę. Wciąż miał przed oczami opiekuna powalonego mieczem czarnego rycerza. Nawet potężna magia starego maga nie zdołała powstrzymać napastników.
 

diff --git a/docs/other/sklepy.md b/docs/other/sklepy.md
@@ -1,0 +1,12 @@
+**Martel** Pomocna Dłoń prowadził natomiast niewielki handel miksturami i owocami, które z pewnością będą mogły przydać się podczas dalszej podróży.
+
+**Thorengrim Hammerfist** Pomocna Dłoń krasnoludzki kowal i handlarz dysponujący imponującym wyborem broni, pancerzy oraz magicznego wyposażenia.
+
+**Ratava Artsym** Kaplica w pomocnej dłoni - ciekawy asortyment
+
+**pani Godfrey** Za kaplicą w Pomocnej Dłoni, oferuje torby i pojemniki na niemal każdą okazję
+
+**Sintara Al-Mustafa** Za kaplicą w Pomocnej Dłoni, sprzedaje magiczne przedmioty dobrej jakości
+
+**Sprzedawca perfum** Przy wozie w Pomocnej Dłoni, chyba jasne co oferuje?
+

diff --git a/docs/other/maps.md b/docs/other/maps.md
@@ -4,6 +4,7 @@
 | Candlekeep [1] | BG2600 | [![Candlekeep](../maps/BG2600.webp){ width="100" }](../maps/BG2600.webp) ||
 | Lwi Trakt [2] | BG2700 | [![Lwi Trakt](../maps/BG2700.webp){ width="100" }](../maps/BG2700.webp) | Czarny niedźwiedź, Olbrzymi wąż, Chory gibberling |
 | Nadbrzeżny Trakt [3] | BG2800 | [![Nadbrzeżny Trakt](../maps/BG2800.webp){ width="100" }](../maps/BG2800.webp) |Chory gibberling, Bandyta, Niedźwieżuk, Xvart, Rozbójnik karawanowy, Ogr, Wilk|
+| Pod Pomocną Dłonią [4] | BG2300 | [![Pomocna Dłoń](../maps/BG2300.webp){ width="100" }](../maps/BG2300.webp) ||
 ||||
 ||||
 ||||
